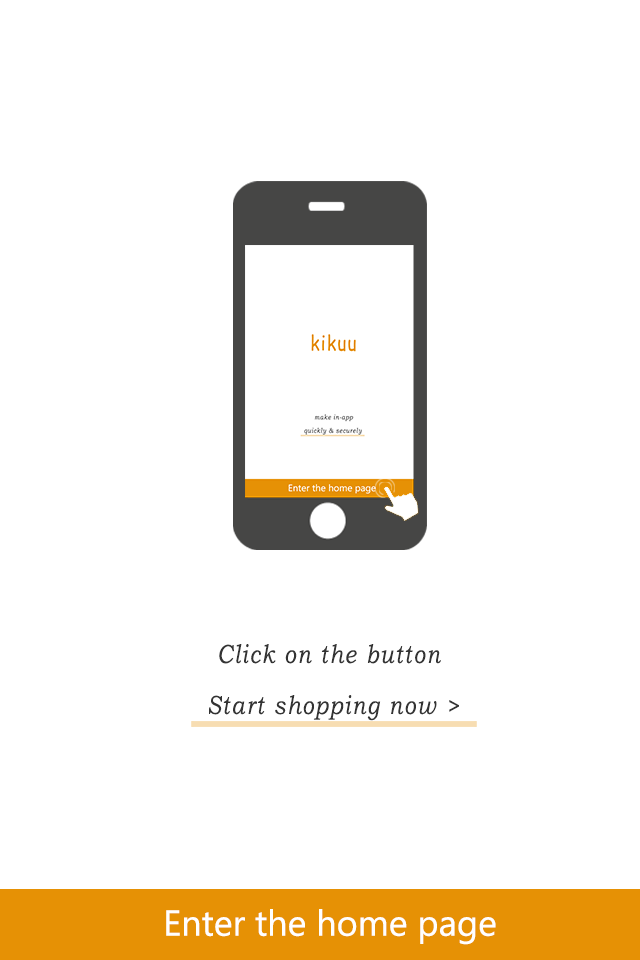
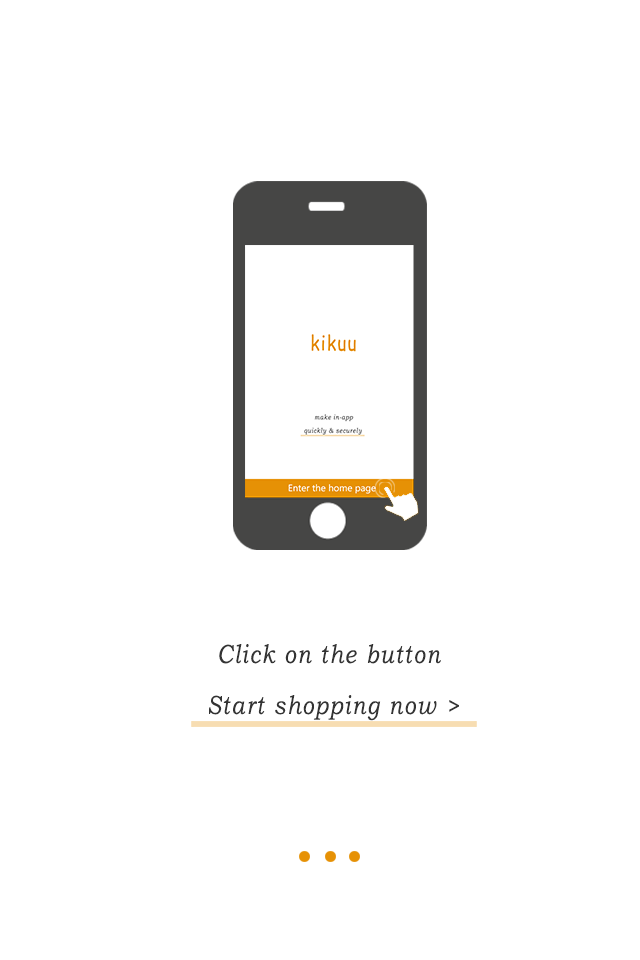
add welcome splash

Changed region(s): [[0.0, 0.875, 1.0, 1.0]]

diff --git a/magento-server-kikuu/kikuu/www/js/controllers.js b/magento-server-kikuu/kikuu/www/js/controllers.js
@@ -88,6 +88,30 @@ angular.module('app.controllers', [])
 				 };
 
 			//end 各种弹出信息
+			
+        //首次欢迎页
+        $scope.welcome = function ()	{	
+					var myt = '<ion-slide-box show-pager="false">'
+							+'<ion-slide><img class="fullwidth" ng-src="img/spash1.png"></ion-slide>'
+							+'<ion-slide><img class="fullwidth" ng-src="img/spash2.png"></ion-slide>'
+							+'<ion-slide><img class="fullwidth" ng-src="img/spash3.png"></ion-slide>'
+							+'</ion-slide-box>';
+					// An elaborate, custom popup
+					var myPopup = $ionicPopup.show({
+						template: myt,
+						title: 'Welcome to Kikuu',
+						cssClass: 'popupFullscreen',
+						scope: $scope,
+						buttons: [
+							{ text: 'Enter Kikuu',
+								type: 'button-energized'},
+						]
+					});
+					myPopup.then(function(res) {
+						console.log('Tapped!', res);
+					});				
+				};
+				//end 首次欢迎页
         // 网站列表信息
         $scope.getWebsite = function () {
             $rootScope.service.get('website', function (website) {
@@ -317,12 +341,7 @@ angular.module('app.controllers', [])
 					});
 					myPopup.then(function(res) {
 						console.log('Tapped!', res);
-					});
-					$timeout(function() {
-						 myPopup.close(); //close the popup after 3 seconds for some reason
-					}, 30000);
-				 
-					
+					});				
 				};
 				//end 全屏幕图片
         $scope.qtyAdd = function () {

diff --git a/magento-server-kikuu/kikuu/www/templates/menu.html b/magento-server-kikuu/kikuu/www/templates/menu.html
@@ -92,6 +92,10 @@
                   class="item icon icon-left ion-android-exit">
                     <span class="padding-horizontal">Exit</span>
                 </a> 
+                <a menu-close ng-click="welcome()"
+                  class="item icon icon-left ion-android-exit">
+                    <span class="padding-horizontal">welcome</span>
+                </a> 
             </ion-list>
         </ion-content>
     </ion-side-menu>

diff --git a/magento-server-kikuu/kikuu/www/css/style.css b/magento-server-kikuu/kikuu/www/css/style.css
@@ -443,6 +443,11 @@ em	{
 .popupFullscreen .popup .popup-body	{
   height: 100%; 
   }
+.popupFullscreen .popup-buttons	{
+	position: fixed;
+  bottom: 10px;
+  width: 100%;  
+  }
 .popupFullscreen .slider-pager	{
   bottom: 0px; 
   }
